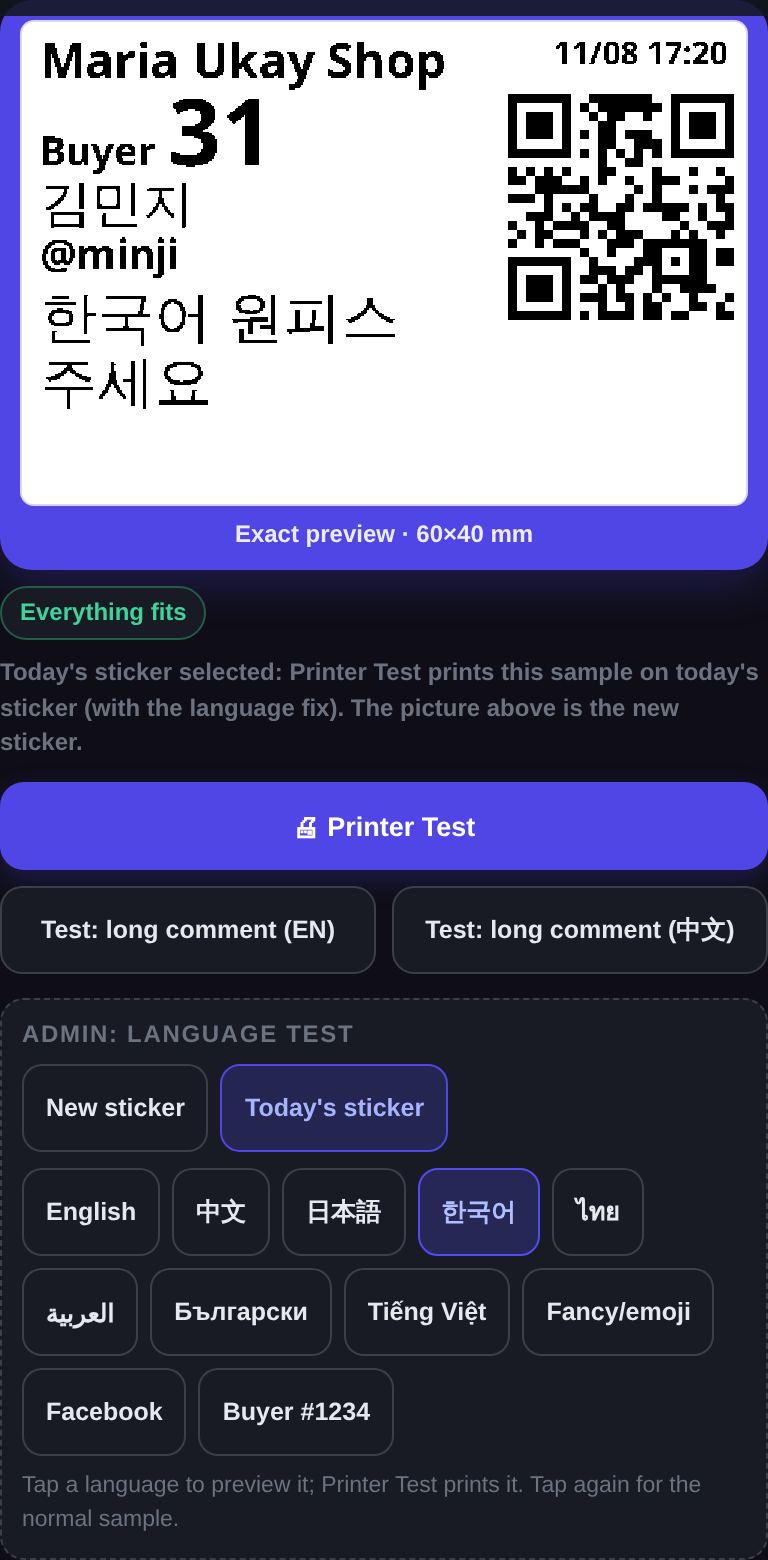
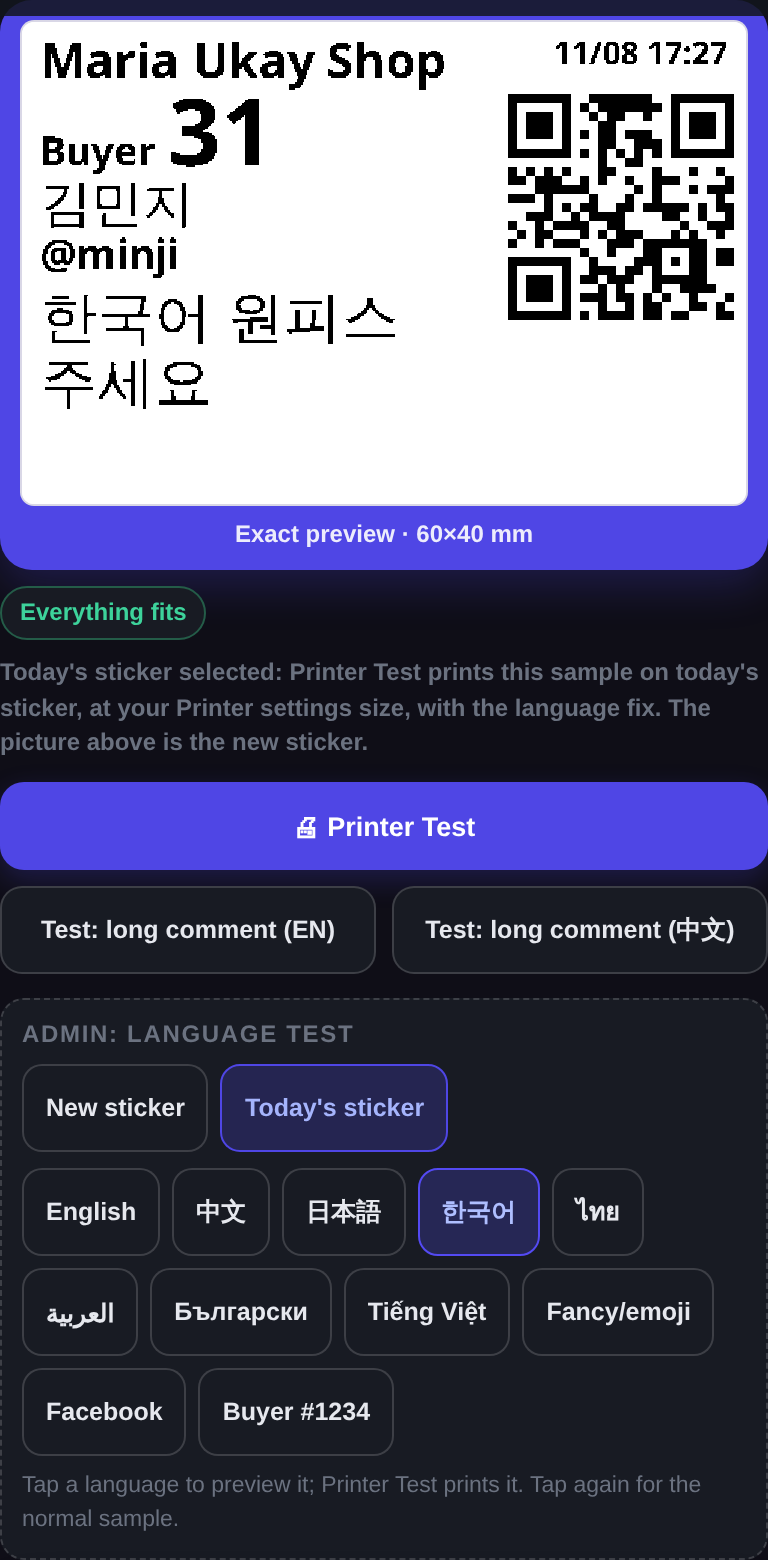
Admin language test, guardian notes: the Today's note names the Printer settings size and says TEXT / WiFi printers have no language fix; the new-sticker route passes the screen's real unsaved flag; PRINTING_MAP P12 test list names the new tests + byte-proof result; screenshots re-shot (0 layout pro
Claude-Session: https://claude.ai/code/session_016eKNVUSjjPXywP8qaFW4Mh

Changed region(s): [[0.0, 0.4308, 0.9062, 0.4923]]

diff --git a/src/redesign/components/OneStickerPattern.tsx b/src/redesign/components/OneStickerPattern.tsx
@@ -152,7 +152,7 @@ export interface OneStickerPatternProps {
   // ADMIN ONLY (never shown to sellers, whatever the switches): the language test chips + "New / Today's
   // sticker". Printer Test then prints the picked sample through the normal print functions.
   isAdmin?: boolean;
-  onTestSample?: (draft: OneStickerSettings, sample: AdminLangSample, route: "new" | "today") => void;
+  onTestSample?: (draft: OneStickerSettings, sample: AdminLangSample, route: "new" | "today", unsaved: boolean) => void;
 }
 
 export default function OneStickerPattern(p: OneStickerPatternProps) {
@@ -273,12 +273,14 @@ export default function OneStickerPattern(p: OneStickerPatternProps) {
             </span>
           ))}
         </div>}
-        {admin && route === "today" && <div data-testid="os-admin-today-note" style={{ marginTop: 8, fontSize: 12, fontWeight: 600, color: "var(--text-muted)", lineHeight: 1.45 }}>Today's sticker selected: Printer Test prints this sample on today's sticker (with the language fix). The picture above is the new sticker.</div>}
+        {admin && route === "today" && <div data-testid="os-admin-today-note" style={{ marginTop: 8, fontSize: 12, fontWeight: 600, color: "var(--text-muted)", lineHeight: 1.45 }}>{p.devicePath === "text" || p.devicePath === "wifi"
+          ? "Today's sticker selected: Printer Test prints this sample on today's text sticker, at your Printer settings size. This printer has no language fix (other scripts print as the @username, as today). The picture above is the new sticker."
+          : "Today's sticker selected: Printer Test prints this sample on today's sticker, at your Printer settings size, with the language fix. The picture above is the new sticker."}</div>}
         {p.devicePath === "text" && <div data-testid="os-text-path" style={{ marginTop: 8, fontSize: 12, color: "var(--text-muted)", lineHeight: 1.45 }}>{t.rd_os_text_path}</div>}
         {p.devicePath === "wifi" && <div data-testid="os-wifi-path" style={{ marginTop: 8, fontSize: 12, color: "var(--text-muted)", lineHeight: 1.45 }}>{t.rd_os_wifi_path}</div>}
 
         {/* 2. test prints (today's buttons) */}
-        <button onClick={() => (adminTesting ? p.onTestSample!(sEff, adminSample ?? ADMIN_DEFAULT_SAMPLE, route) : p.onTest(sEff, "default", dirty || !saved))} data-testid="os-test" style={{ width: "100%", marginTop: 11, padding: "12px 0", minHeight: 44, border: "none", borderRadius: 12, background: "var(--accent)", color: "var(--accent-text)", fontFamily: "var(--font-ui)", fontSize: 13.5, fontWeight: 700, cursor: "pointer", boxShadow: "0 5px 14px var(--accent-soft)" }}><span aria-hidden="true">🖨 </span>{t.rd_pp_printer_test}</button>
+        <button onClick={() => (adminTesting ? p.onTestSample!(sEff, adminSample ?? ADMIN_DEFAULT_SAMPLE, route, dirty || !saved) : p.onTest(sEff, "default", dirty || !saved))} data-testid="os-test" style={{ width: "100%", marginTop: 11, padding: "12px 0", minHeight: 44, border: "none", borderRadius: 12, background: "var(--accent)", color: "var(--accent-text)", fontFamily: "var(--font-ui)", fontSize: 13.5, fontWeight: 700, cursor: "pointer", boxShadow: "0 5px 14px var(--accent-soft)" }}><span aria-hidden="true">🖨 </span>{t.rd_pp_printer_test}</button>
         <div style={{ display: "flex", gap: 8, marginTop: 8 }}>
           <button onClick={() => p.onTest(sEff, "en", dirty || !saved)} data-testid="os-test-en" style={{ flex: 1, minWidth: 0, padding: "10px 6px", minHeight: 44, border: "1px solid var(--border-strong)", borderRadius: 11, background: "var(--surface)", color: "var(--text)", fontFamily: "var(--font-ui)", fontSize: 12.5, fontWeight: 700, cursor: "pointer" }}>{t.rd_pp_v2_test_latin}</button>
           <button onClick={() => p.onTest(sEff, "zh", dirty || !saved)} data-testid="os-test-zh" style={{ flex: 1, minWidth: 0, padding: "10px 6px", minHeight: 44, border: "1px solid var(--border-strong)", borderRadius: 11, background: "var(--surface)", color: "var(--text)", fontFamily: "var(--font-ui)", fontSize: 12.5, fontWeight: 700, cursor: "pointer" }}>{t.rd_pp_v2_test_cjk}</button>

diff --git a/src/redesign/components/__tests__/OneStickerPattern.adminLang.test.tsx b/src/redesign/components/__tests__/OneStickerPattern.adminLang.test.tsx
@@ -62,10 +62,28 @@ describe("admin language test", () => {
     fireEvent.click(screen.getByTestId("os-test"));
     expect(onTest).not.toHaveBeenCalled();
     expect(onTestSample).toHaveBeenCalledTimes(1);
-    const [draft, sample, route] = onTestSample.mock.calls[0];
+    const [draft, sample, route, unsaved] = onTestSample.mock.calls[0];
     expect(sample.key).toBe("th");
     expect(route).toBe("new");
+    expect(unsaved).toBe(true);
     expect(draft.parts.buyer.scale).toBe(1.15);
+  });
+  it("a device that saved the sticker and changed nothing: the test is not 'unsaved'", () => {
+    const { onTestSample } = mount({ isAdmin: true, savedOnDevice: true });
+    fireEvent.click(screen.getByTestId("os-admin-lang-zh"));
+    fireEvent.click(screen.getByTestId("os-test"));
+    expect(onTestSample.mock.calls[0][3]).toBe(false);
+  });
+  it("Today's note: picture printers mention the language fix; TEXT / WiFi say there is none", () => {
+    mount({ isAdmin: true });
+    fireEvent.click(screen.getByTestId("os-admin-route-today"));
+    expect(screen.getByTestId("os-admin-today-note").textContent).toContain("with the language fix");
+    expect(screen.getByTestId("os-admin-today-note").textContent).toContain("Printer settings size");
+  });
+  it("Today's note on a TEXT phone: no language fix promised", () => {
+    mount({ isAdmin: true, devicePath: "text" });
+    fireEvent.click(screen.getByTestId("os-admin-route-today"));
+    expect(screen.getByTestId("os-admin-today-note").textContent).toContain("no language fix");
   });
   it("Today's sticker: Printer Test routes to today's sticker, and the preview says the picture is the new sticker", () => {
     const { onTestSample } = mount({ isAdmin: true });

diff --git a/src/redesign/adapters/__tests__/adminLangTest.print.test.ts b/src/redesign/adapters/__tests__/adminLangTest.print.test.ts
@@ -66,9 +66,9 @@ describe("admin language test — prints through the normal path", () => {
   }, 60000);
   it("RedesignApp: admin-only wiring — New = the screen's own test print, Today's = printSlip with noOneSticker", () => {
     const app = fs.readFileSync(path.join(__dirname, "../../RedesignApp.tsx"), "utf8");
-    expect(app).toMatch(/isAdmin=\{isAdmin\}\s*onTestSample=\{isAdmin \? \(draft, sample, route\) =>/);
+    expect(app).toMatch(/isAdmin=\{isAdmin\}\s*onTestSample=\{isAdmin \? \(draft, sample, route, unsaved\) =>/);
     const h = app.slice(app.indexOf("onTestSample={isAdmin ?"), app.indexOf("onTestSample={isAdmin ?") + 700);
-    expect(h).toContain('if (route === "new") { await oneStickerTestPrint(draft, buyer, true); return; }');
+    expect(h).toContain('if (route === "new") { await oneStickerTestPrint(draft, buyer, unsaved); return; }');
     expect(h).toMatch(/printSlip\(buyer, cur, stickerShopName\(printShopName\), buildSettingsFromRedesign\(\{ pp, psType, psOut, psSize \}\), \{ noOneSticker: true \}\)/);
     expect(h).toContain(": undefined}");
   });

diff --git a/src/redesign/RedesignApp.tsx b/src/redesign/RedesignApp.tsx
@@ -2878,9 +2878,9 @@ export default function RedesignApp() {
               // sample; "today" = today's sticker through printSlip (the real-order dispatch) with the
               // all-scripts language fix (on for admins). Never passed for a seller.
               isAdmin={isAdmin}
-              onTestSample={isAdmin ? (draft, sample, route) => void (async () => {
+              onTestSample={isAdmin ? (draft, sample, route, unsaved) => void (async () => {
                 const buyer = adminSampleBuyer(sample);
-                if (route === "new") { await oneStickerTestPrint(draft, buyer, true); return; }
+                if (route === "new") { await oneStickerTestPrint(draft, buyer, unsaved); return; }
                 const r = printSlip(buyer, cur, stickerShopName(printShopName), buildSettingsFromRedesign({ pp, psType, psOut, psSize }), { noOneSticker: true });
                 setToast(r.ok ? { msg: `Today's sticker test sent (${sample.label})`, kind: "ok" } : { msg: tApp.rd_ps_test_failed, kind: "err" });
               })() : undefined} />

diff --git a/docs/printing/PRINTING_MAP.md b/docs/printing/PRINTING_MAP.md
@@ -109,7 +109,7 @@ Routing inputs: `Settings.printerType` / `lanFormat` / `stickerSize` (from `buil
 | Live print pattern "Printer Test" | RedesignApp.tsx:1879-1895 | No BT bridge → `printSlip` (P9 on laptop; on a phone without the BT method → P8 or P7). Otherwise `printStickerBtRouted` (= P1, P2, P3-5 or P6) with `savedTestBuyer()`. The v2 sample comment comes from `testBuyerWithComment` (1878). |
 | Printer settings BT "Test print" | PrinterSettings.tsx:178-188 | `printStickerBtRouted(testBuyer())` |
 | **New** Live print pattern (one sticker) "Printer Test" + the two long-comment tests | RedesignApp.tsx `oneStickerTestPrint` → `printOneStickerTest` | the preview's sample (#128 Maria Santos "COMMENT / PRICE") with the DRAFT settings, through the same picture paths as an order (P1 / P3-5 / P6 / P9); TEXT / WiFi → today's sticker at the draft's TEXT size. |
-| **ADMIN ONLY** language test (new Live print pattern, `components/OneStickerPattern.tsx` `os-admin-lang`, samples `adapters/adminLangSamples.ts`) | RedesignApp.tsx `onTestSample` (passed only when `isAdmin`; the screen also gates on `isAdmin`) | 11 chips (English, 中文, 日本語, 한국어, ไทย, العربية, Български, Tiếng Việt, Fancy/emoji, Facebook, Buyer #1234) swap the preview + notes; **New sticker** = `oneStickerTestPrint` with that sample (input = exactly the preview's, `adminSampleInput` = `oneStickerInputFrom` on the sample order); **Today's sticker** = `printSlip(sample, …, { noOneSticker: true })` = the real-order dispatch with the one sticker off (today's sticker + the all-scripts fix, on for admins). Sellers never see it (test-pinned); seller prints unchanged (864 × 2 capture). Screens: `docs/design/one-sticker/admin-language-test/`. |
+| **ADMIN ONLY** language test (new Live print pattern, `components/OneStickerPattern.tsx` `os-admin-lang`, samples `adapters/adminLangSamples.ts`) | RedesignApp.tsx `onTestSample` (passed only when `isAdmin`; the screen also gates on `isAdmin`) | 11 chips (English, 中文, 日本語, 한국어, ไทย, العربية, Български, Tiếng Việt, Fancy/emoji, Facebook, Buyer #1234) swap the preview + notes; **New sticker** = `oneStickerTestPrint` with that sample (input = exactly the preview's, `adminSampleInput` = `oneStickerInputFrom` on the sample order); **Today's sticker** = `printSlip(sample, …, { noOneSticker: true })` = the real-order dispatch with the one sticker off (today's sticker + the all-scripts fix, on for admins). Sellers never see it (test-pinned); seller prints unchanged (864 × 2 capture vs origin/main `edd43cc3`: 0 different). Today's sticker uses the Printer settings size (not the draft); on a TEXT / WiFi printer there is no language fix (the note says so). Screens: `docs/design/one-sticker/admin-language-test/`. |
 | Printer setup v2 "tap a printer" | PrinterSettings.tsx:196-216 | save first, then `printStickerBtRouted`: D520 → `buildTestBuyer`, generic/Niimbot → `buildTestBuyerV2` (printerBridge.ts:155) |
 | Printer settings **WiFi** "Test print" | PrinterSettings.tsx:146 | `callMobilePrinterBridge("testPrint")` → shim `testPrint` → `printSlip` with a **hard-coded** payload (Swift:214-227; MainActivity.java:115). **❌ Always an ESC/POS receipt with no settings, even when the WiFi format is "Sticker"** (it would send ESC/POS to a TSPL printer). |
 | Native `testStickerPrint` / `textTestPage` / `buildTsplTestPage` | Java:556; TsplBuilder.java:95; Swift:1225, 1391 | **Dormant.** The web no longer calls it (only listed in the `BtBridgeAction` type, printerBridge.ts:30). |
@@ -256,7 +256,7 @@ Columns: **1S** = the one-sticker engine (Branch 1: P1 / P3-5 / P6 / P9 / previe
 | P9 web | printing.test.ts:77-180 (HTML string asserts), printing.webQr.test.ts, webPrintQueue.test.ts, kioskLauncher.test.ts, notPrintedStore.test.ts, useOrders.kioskFalseSave.test.tsx, Dashboard.notPrinted.test.tsx | **❌ no rendered-picture check.** The string tests *pin the gaps* (trunc 14, no multipliers). |
 | P10 receipt picture | receiptImage.test.ts, receiptDraw.server.test.ts, buyerReceipt.test.ts, receiptSettings.test.ts, receiptSheetLayout / Lines / receiptSend / receiptGate (.tsx), fbAutoReceipt*.server.test.ts | ⚠ layout ops tested; no pixel diff phone vs server |
 | P11 previews | PrintPattern.test / .honestSteps / .shopName / .spacing / .v2, stickerSpacing.compactDefault.test.tsx, stickerQrMove.test.tsx | ⚠ **no test asserts preview pixels == print pixels per path/size.** Nothing covers compact v2, font C or Niimbot in the preview. |
-| P12 test prints | testPrintComment.test.tsx, printerSetupFlow.test.tsx, PrinterSettings.test.tsx, PrinterModal.test.tsx, btOff.test.tsx | ⚠ WiFi `testPrint` shim untested; native test pages untested |
+| P12 test prints | testPrintComment.test.tsx, printerSetupFlow.test.tsx, PrinterSettings.test.tsx, PrinterModal.test.tsx, btOff.test.tsx, adminLangTest.print.test.ts (admin language test: new-sticker input = the preview's for all 11 samples on the D520 picture; Today's = today's bytes on a saved device, D520 — generic / Niimbot / laptop by code reading), OneStickerPattern.adminLang.test.tsx (admin-only gate, chip → preview + notes, route + unsaved flag) | ⚠ WiFi `testPrint` shim untested; native test pages untested |
 | P13 triggers | reprint.test.ts, printing.originalDate.test.ts, raffle.test.ts, pinToPrint.test.ts, pinHold.test.tsx, useOrders.*.test, fbPostSales.test.tsx, samePrice.test.ts, Dashboard.reprint.test.tsx | ⚠ **Print screen (Print.tsx) has no test.** Nothing covers multi-order. |
 | 1S one sticker | oneSticker.test.ts (what prints, layout rules, every control changes the picture, fit warnings, custom, limits), **oneSticker.parity.test.ts (pixel test: printSlip → the bytes each printer receives, decoded == the preview, 8 sizes × 12 samples × D520/TSPL/ESC-POS/CPCL/Niimbot/laptop)**, oneSticker.switches.test.ts (switch OFF / unsaved = today's bytes on every path; ON+saved changes only image paths; all-scripts ON vs OFF byte-identical for Latin/Chinese on D520 6 sizes × QR × v2 + generic ×3 + Niimbot), OneStickerPattern.test.tsx (incl. the approved row order), GeneralSettings.oneStickerBadge.test.tsx, **oneSticker.readable.test.ts (every script × 50×30/60×40/100×60 × Normal/Bold/Extra × AIMO/Y41BT-XP420B ink/Niimbot/laptop: no printed line with a filled counter, strokes run together or neighbours touching — checked by the test's OWN flood-fill, not the guard's code; fails without the guard; ordinary names / numbers / price codes keep Bold and Extra on AIMO; look-alike pairs (rn, vv, rt, ty) never merge; only lighter, never resized — every size × scale 1/1.5/2 × long Chinese/Japanese)**, oneSticker.switches.test.ts also pins Thai marks kept (device font AND, in every 18/20/24/32 cell, zero ink lost, no stroke broken, Hangul at the full cell) and a Thai / Korean word staying whole (no gap, no line break inside it); Chrome real print check (docs/design/one-sticker/pixel-table.md, Playwright PDF: 96 pages, diff 0) | ✅ pixels (TS) + Chrome print |
 | e2e | e2e/smoke/tests/smoke.spec.ts opens Print pattern / Printer screens | **never prints** (smoke.spec.ts:7, 273) |
